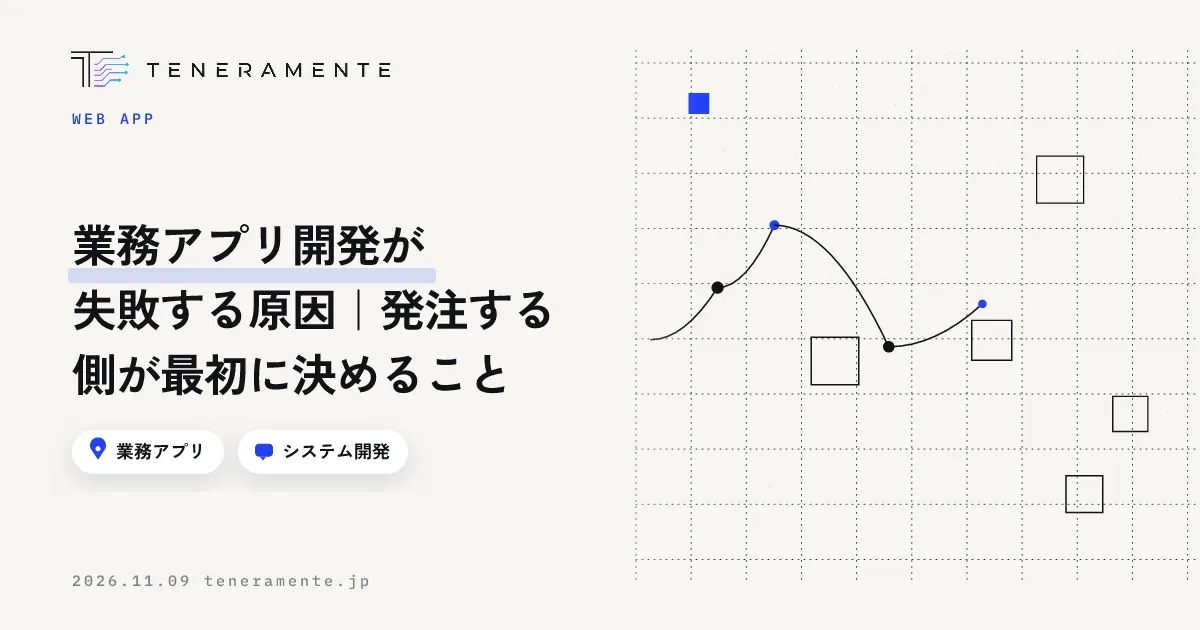
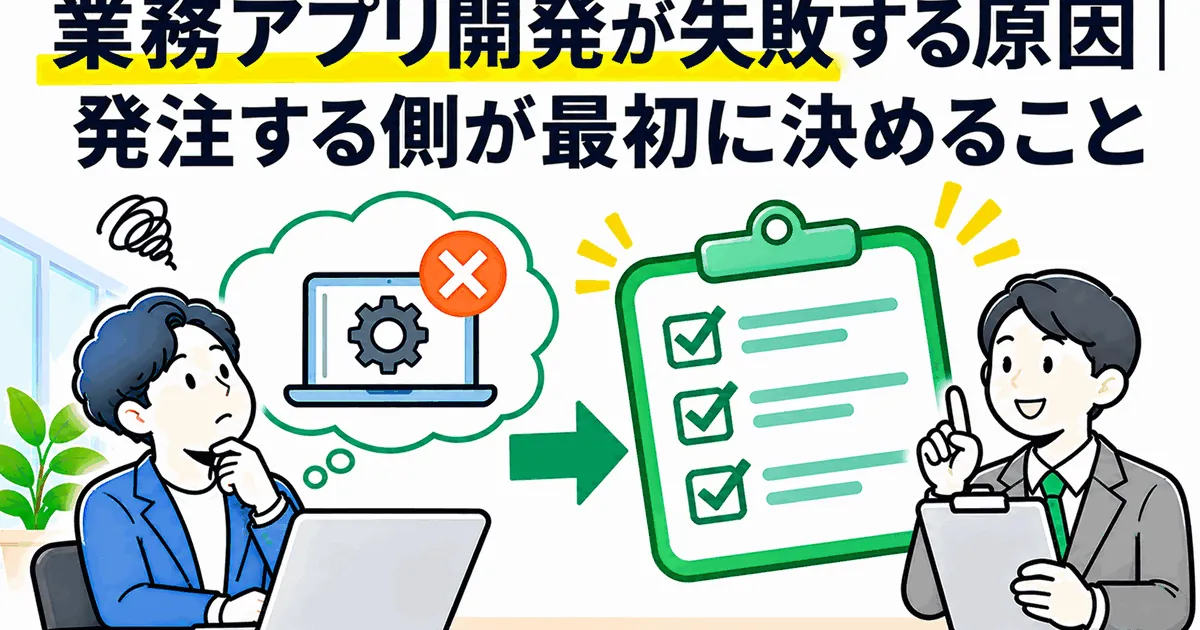
covers: 記事のトップ画像を ChatGPT の画像に差し替え（k112・k113・m055・m054・m053・m052・k111・m051）

diff --git a/mieroom/articles/joken-kousho-susumekata.html b/mieroom/articles/joken-kousho-susumekata.html
@@ -13,15 +13,15 @@
 <meta property="og:description" content="入居希望者から賃料交渉を受けたときの進め方を、確認の順番・管理会社への伝え方・断られたときの代替案の3段で整理しました。通りやすい交渉と通りにくい交渉の違い、店として決めておくルールまでまとめています。">
 <meta property="og:url" content="https://mieroom.cloud/articles/joken-kousho-susumekata.html">
 <meta property="og:site_name" content="ミエルーム">
-<meta property="og:image" content="https://mieroom.cloud/assets/og-mieroom.png">
+<meta property="og:image" content="https://mieroom.cloud/assets/covers/joken-kousho-susumekata.png">
 <meta property="og:image:width" content="1200">
-<meta property="og:image:height" content="630">
+<meta property="og:image:height" content="675">
 <meta name="twitter:card" content="summary_large_image">
 <link rel="preconnect" href="https://fonts.googleapis.com">
 <link rel="preconnect" href="https://fonts.gstatic.com" crossorigin>
 <link href="https://fonts.googleapis.com/css2?family=Noto+Sans+JP:wght@400;500;700;900&family=Zen+Kaku+Gothic+New:wght@500;700;900&display=swap" rel="stylesheet">
 <link rel="stylesheet" href="../assets/site.css">
-<script type="application/ld+json">{"@context":"https://schema.org","@graph":[{"@type":"BlogPosting","headline":"賃料や条件の交渉を通す進め方｜確認の順番と、断られたときの代替案","description":"入居希望者から賃料交渉を受けたときの進め方を、確認の順番・管理会社への伝え方・断られたときの代替案の3段で整理しました。通りやすい交渉と通りにくい交渉の違い、店として決めておくルールまでまとめています。","datePublished":"2026-10-17","dateModified":"2026-10-17","inLanguage":"ja","mainEntityOfPage":"https://mieroom.cloud/articles/joken-kousho-susumekata.html","image":"https://mieroom.cloud/assets/og-mieroom.png","articleSection":"業務効率化","author":{"@type":"Organization","name":"ミエルーム編集部"},"publisher":{"@type":"Organization","name":"株式会社TENERAMENTE","logo":{"@type":"ImageObject","url":"https://teneramente.jp/assets/img/favicon-512.png"}},"keywords":"条件交渉, 申込管理, 店舗運営, 接客, 賃貸仲介"},{"@type":"BreadcrumbList","itemListElement":[{"@type":"ListItem","position":1,"name":"ミエルーム","item":"https://mieroom.cloud/"},{"@type":"ListItem","position":2,"name":"ブログ","item":"https://mieroom.cloud/blog.html"},{"@type":"ListItem","position":3,"name":"賃料や条件の交渉を通す進め方｜確認の順番と、断られたときの代替案","item":"https://mieroom.cloud/articles/joken-kousho-susumekata.html"}]},{"@type":"FAQPage","mainEntity":[{"@type":"Question","name":"家賃交渉はどこまでお願いできるものですか？","acceptedAnswer":{"@type":"Answer","text":"物件とオーナーの状況によって変わるため、一律の上限はありません。判断の材料になるのは、空室になっている期間と入居日です。長く空いている部屋と、募集を始めたばかりの部屋では、同じ相談でも受け取られ方が違います。お客様に「どのくらいまで下がりますか」と聞かれた場合は、金額を約束せず、確認してから回答する旨を伝えてください。先に見込みを言うと、通らなかったときに申込が止まります。"}},{"@type":"Question","name":"交渉の回答を待つ間、ほかのお客様に案内してよいですか？","acceptedAnswer":{"@type":"Answer","text":"店として扱いを決めておく必要があります。交渉の回答待ちは申込ではないため、物件を止める根拠にはなりません。一方で、案内を続けて先に申込が入ると、交渉していたお客様への説明が難しくなります。現実的なのは、回答待ちの期限を決めておくことです。いつまでに回答が来なければ通常の案内に戻す、という線を社内で共有しておくと、担当者ごとの判断が揃います。"}},{"@type":"Question","name":"交渉が通ったあとに申込がキャンセルされたときは？","acceptedAnswer":{"@type":"Answer","text":"管理会社やオーナーへ、理由を添えて早めに連絡してください。連絡が遅れると、次の交渉が出しづらくなります。あわせて、キャンセルの理由を案件の記録に残してください。交渉が通ったのにキャンセルになる場合、理由が条件以外にあることが多く、同じ段階での取りこぼしが続いていないかを後から確認できます。"}}]}]}</script>
+<script type="application/ld+json">{"@context":"https://schema.org","@graph":[{"@type":"BlogPosting","headline":"賃料や条件の交渉を通す進め方｜確認の順番と、断られたときの代替案","description":"入居希望者から賃料交渉を受けたときの進め方を、確認の順番・管理会社への伝え方・断られたときの代替案の3段で整理しました。通りやすい交渉と通りにくい交渉の違い、店として決めておくルールまでまとめています。","datePublished":"2026-10-17","dateModified":"2026-10-17","inLanguage":"ja","mainEntityOfPage":"https://mieroom.cloud/articles/joken-kousho-susumekata.html","image":"https://mieroom.cloud/assets/covers/joken-kousho-susumekata.png","articleSection":"業務効率化","author":{"@type":"Organization","name":"ミエルーム編集部"},"publisher":{"@type":"Organization","name":"株式会社TENERAMENTE","logo":{"@type":"ImageObject","url":"https://teneramente.jp/assets/img/favicon-512.png"}},"keywords":"条件交渉, 申込管理, 店舗運営, 接客, 賃貸仲介"},{"@type":"BreadcrumbList","itemListElement":[{"@type":"ListItem","position":1,"name":"ミエルーム","item":"https://mieroom.cloud/"},{"@type":"ListItem","position":2,"name":"ブログ","item":"https://mieroom.cloud/blog.html"},{"@type":"ListItem","position":3,"name":"賃料や条件の交渉を通す進め方｜確認の順番と、断られたときの代替案","item":"https://mieroom.cloud/articles/joken-kousho-susumekata.html"}]},{"@type":"FAQPage","mainEntity":[{"@type":"Question","name":"家賃交渉はどこまでお願いできるものですか？","acceptedAnswer":{"@type":"Answer","text":"物件とオーナーの状況によって変わるため、一律の上限はありません。判断の材料になるのは、空室になっている期間と入居日です。長く空いている部屋と、募集を始めたばかりの部屋では、同じ相談でも受け取られ方が違います。お客様に「どのくらいまで下がりますか」と聞かれた場合は、金額を約束せず、確認してから回答する旨を伝えてください。先に見込みを言うと、通らなかったときに申込が止まります。"}},{"@type":"Question","name":"交渉の回答を待つ間、ほかのお客様に案内してよいですか？","acceptedAnswer":{"@type":"Answer","text":"店として扱いを決めておく必要があります。交渉の回答待ちは申込ではないため、物件を止める根拠にはなりません。一方で、案内を続けて先に申込が入ると、交渉していたお客様への説明が難しくなります。現実的なのは、回答待ちの期限を決めておくことです。いつまでに回答が来なければ通常の案内に戻す、という線を社内で共有しておくと、担当者ごとの判断が揃います。"}},{"@type":"Question","name":"交渉が通ったあとに申込がキャンセルされたときは？","acceptedAnswer":{"@type":"Answer","text":"管理会社やオーナーへ、理由を添えて早めに連絡してください。連絡が遅れると、次の交渉が出しづらくなります。あわせて、キャンセルの理由を案件の記録に残してください。交渉が通ったのにキャンセルになる場合、理由が条件以外にあることが多く、同じ段階での取りこぼしが続いていないかを後から確認できます。"}}]}]}</script>
 <style id="mp-nav-fit">
 /* 狭い画面ではヘッダーのボタンを小さくして、右にはみ出さないようにする */
 @media (max-width: 640px) {
@@ -75,7 +75,9 @@
     </div>
   </div>
 </section>
-
+<div class="post-cover">
+  <div class="band band--img"><img src="../assets/covers/joken-kousho-susumekata.webp" alt="賃料や条件の交渉を通す進め方｜確認の順番と、断られたときの代替案" width="1200" height="675" decoding="async"></div>
+</div>
 <div class="post-body">
 <p>「家賃、少し下がりませんか」と聞かれたとき、そのまま管理会社に電話していないでしょうか。<strong>条件交渉が通るかどうかは、交渉の上手さではなく、先に何を確認したかで決まります</strong>。確認を飛ばした交渉は、通らないだけでなく、申込そのものを長引かせます。</p>
 <div class="conclusion"><h4>この記事の結論</h4><p>交渉の前に確認するのは、金額ではなく申込の確度と入居日です。<strong>「この条件が通れば申込む」という状態を作ってから出すと、交渉は通りやすくなります</strong>。賃料以外に動かせる条件を先に並べ、断られたときの代替案まで用意してから連絡してください。</p></div>

diff --git a/mieroom/articles/nitenpome-shutten-handan.html b/mieroom/articles/nitenpome-shutten-handan.html
@@ -13,15 +13,15 @@
 <meta property="og:description" content="賃貸仲介で2店舗目を出すかどうかを、感覚ではなく数字と店舗の状態から判断するための整理です。見るべきは売上ではなく粗利と反響の余り、そして1店舗目が店長不在でも回るかどうかという順番でまとめています。">
 <meta property="og:url" content="https://mieroom.cloud/articles/nitenpome-shutten-handan.html">
 <meta property="og:site_name" content="ミエルーム">
-<meta property="og:image" content="https://mieroom.cloud/assets/og-mieroom.png">
+<meta property="og:image" content="https://mieroom.cloud/assets/covers/nitenpome-shutten-handan.png">
 <meta property="og:image:width" content="1200">
-<meta property="og:image:height" content="630">
+<meta property="og:image:height" content="675">
 <meta name="twitter:card" content="summary_large_image">
 <link rel="preconnect" href="https://fonts.googleapis.com">
 <link rel="preconnect" href="https://fonts.gstatic.com" crossorigin>
 <link href="https://fonts.googleapis.com/css2?family=Noto+Sans+JP:wght@400;500;700;900&family=Zen+Kaku+Gothic+New:wght@500;700;900&display=swap" rel="stylesheet">
 <link rel="stylesheet" href="../assets/site.css">
-<script type="application/ld+json">{"@context":"https://schema.org","@graph":[{"@type":"BlogPosting","headline":"賃貸仲介で2店舗目を出すときの判断｜見る数字と、先に整える順番","description":"賃貸仲介で2店舗目を出すかどうかを、感覚ではなく数字と店舗の状態から判断するための整理です。見るべきは売上ではなく粗利と反響の余り、そして1店舗目が店長不在でも回るかどうかという順番でまとめています。","datePublished":"2026-10-19","dateModified":"2026-10-19","inLanguage":"ja","mainEntityOfPage":"https://mieroom.cloud/articles/nitenpome-shutten-handan.html","image":"https://mieroom.cloud/assets/og-mieroom.png","articleSection":"売上管理","author":{"@type":"Organization","name":"ミエルーム編集部"},"publisher":{"@type":"Organization","name":"株式会社TENERAMENTE","logo":{"@type":"ImageObject","url":"https://teneramente.jp/assets/img/favicon-512.png"}},"keywords":"多店舗展開, 出店判断, 売上管理, 店舗運営, 賃貸仲介"},{"@type":"BreadcrumbList","itemListElement":[{"@type":"ListItem","position":1,"name":"ミエルーム","item":"https://mieroom.cloud/"},{"@type":"ListItem","position":2,"name":"ブログ","item":"https://mieroom.cloud/blog.html"},{"@type":"ListItem","position":3,"name":"賃貸仲介で2店舗目を出すときの判断｜見る数字と、先に整える順番","item":"https://mieroom.cloud/articles/nitenpome-shutten-handan.html"}]},{"@type":"FAQPage","mainEntity":[{"@type":"Question","name":"売上がどれくらいになったら2店舗目を考えてよいですか？","acceptedAnswer":{"@type":"Answer","text":"金額の目安を一律に示すことはできません。家賃も人件費も地域と規模で変わるためです。見るのは売上の額ではなく、年間の粗利で、2店舗目が立ち上がるまでの数か月を支えられるかどうかです。あわせて、1店舗目の反響が取りきれていないかを確認してください。この2つが揃っていないうちは、今の店舗の歩留まりを上げる側に投資したほうが確実です。"}},{"@type":"Question","name":"任せる人がいない場合、どうすればよいですか？","acceptedAnswer":{"@type":"Answer","text":"採用して育てる期間を、出店時期に含めて考えてください。出店を先に決めてから人を探すと、入社直後の人に店舗を任せることになります。先に1店舗目で新人を受け入れ、反響対応から申込まで一人で回せる状態まで育ててから、その人に新店か現店のどちらかを任せる形が現実的です。育てる順番が決まっていない場合は、まずそこを整えるのが準備になります。"}},{"@type":"Question","name":"2店舗目は近い場所と離れた場所、どちらがよいですか？","acceptedAnswer":{"@type":"Answer","text":"今の店舗の商圏で反響が足りているかで決まります。足りていない場合は、離れた場所に出して新しい商圏から反響を取る形になります。足りていて取りきれていない場合は、近い場所のほうが物件情報や応援の行き来が効き、立ち上がりも早くなります。ただし近い場合は、同じ反響をどちらが受けるかの線引きを先に決めておかないと、店舗間で取り合いになります。"}}]}]}</script>
+<script type="application/ld+json">{"@context":"https://schema.org","@graph":[{"@type":"BlogPosting","headline":"賃貸仲介で2店舗目を出すときの判断｜見る数字と、先に整える順番","description":"賃貸仲介で2店舗目を出すかどうかを、感覚ではなく数字と店舗の状態から判断するための整理です。見るべきは売上ではなく粗利と反響の余り、そして1店舗目が店長不在でも回るかどうかという順番でまとめています。","datePublished":"2026-10-19","dateModified":"2026-10-19","inLanguage":"ja","mainEntityOfPage":"https://mieroom.cloud/articles/nitenpome-shutten-handan.html","image":"https://mieroom.cloud/assets/covers/nitenpome-shutten-handan.png","articleSection":"売上管理","author":{"@type":"Organization","name":"ミエルーム編集部"},"publisher":{"@type":"Organization","name":"株式会社TENERAMENTE","logo":{"@type":"ImageObject","url":"https://teneramente.jp/assets/img/favicon-512.png"}},"keywords":"多店舗展開, 出店判断, 売上管理, 店舗運営, 賃貸仲介"},{"@type":"BreadcrumbList","itemListElement":[{"@type":"ListItem","position":1,"name":"ミエルーム","item":"https://mieroom.cloud/"},{"@type":"ListItem","position":2,"name":"ブログ","item":"https://mieroom.cloud/blog.html"},{"@type":"ListItem","position":3,"name":"賃貸仲介で2店舗目を出すときの判断｜見る数字と、先に整える順番","item":"https://mieroom.cloud/articles/nitenpome-shutten-handan.html"}]},{"@type":"FAQPage","mainEntity":[{"@type":"Question","name":"売上がどれくらいになったら2店舗目を考えてよいですか？","acceptedAnswer":{"@type":"Answer","text":"金額の目安を一律に示すことはできません。家賃も人件費も地域と規模で変わるためです。見るのは売上の額ではなく、年間の粗利で、2店舗目が立ち上がるまでの数か月を支えられるかどうかです。あわせて、1店舗目の反響が取りきれていないかを確認してください。この2つが揃っていないうちは、今の店舗の歩留まりを上げる側に投資したほうが確実です。"}},{"@type":"Question","name":"任せる人がいない場合、どうすればよいですか？","acceptedAnswer":{"@type":"Answer","text":"採用して育てる期間を、出店時期に含めて考えてください。出店を先に決めてから人を探すと、入社直後の人に店舗を任せることになります。先に1店舗目で新人を受け入れ、反響対応から申込まで一人で回せる状態まで育ててから、その人に新店か現店のどちらかを任せる形が現実的です。育てる順番が決まっていない場合は、まずそこを整えるのが準備になります。"}},{"@type":"Question","name":"2店舗目は近い場所と離れた場所、どちらがよいですか？","acceptedAnswer":{"@type":"Answer","text":"今の店舗の商圏で反響が足りているかで決まります。足りていない場合は、離れた場所に出して新しい商圏から反響を取る形になります。足りていて取りきれていない場合は、近い場所のほうが物件情報や応援の行き来が効き、立ち上がりも早くなります。ただし近い場合は、同じ反響をどちらが受けるかの線引きを先に決めておかないと、店舗間で取り合いになります。"}}]}]}</script>
 <style id="mp-nav-fit">
 /* 狭い画面ではヘッダーのボタンを小さくして、右にはみ出さないようにする */
 @media (max-width: 640px) {
@@ -75,7 +75,9 @@
     </div>
   </div>
 </section>
-
+<div class="post-cover">
+  <div class="band band--img"><img src="../assets/covers/nitenpome-shutten-handan.webp" alt="賃貸仲介で2店舗目を出すときの判断｜見る数字と、先に整える順番" width="1200" height="675" decoding="async"></div>
+</div>
 <div class="post-body">
 <p>売上が安定してきたので、そろそろ2店舗目を。賃貸仲介の店舗運営でこの話が出るのは、たいてい繁忙期が終わった直後です。ただ、<strong>2店舗目を出すかどうかを決めるのは売上の大きさではなく、1店舗目が「自分がいなくても回る状態」になっているかどうか</strong>です。</p>
 <div class="conclusion"><h4>この記事の結論</h4><p>2店舗目の判断で見るのは、売上ではなく<strong>粗利の厚みと、1店舗目で取りきれていない反響があるかどうか</strong>です。そのうえで、1店舗目が店長不在でも回る状態になっているかを確かめます。順番を逆にすると、2店舗出して両方が薄くなります。</p></div>

diff --git a/mieroom/articles/shitchu-horiokoshi.html b/mieroom/articles/shitchu-horiokoshi.html
@@ -13,15 +13,15 @@
 <meta property="og:description" content="過去に決まらなかった反響へ、繁忙期前にもう一度声をかけるための進め方をまとめました。失注理由で対象を分ける考え方、引越し時期から逆算した連絡の時機、送る文面の形、そして掘り起こしができる記録の残し方まで整理しています。">
 <meta property="og:url" content="https://mieroom.cloud/articles/shitchu-horiokoshi.html">
 <meta property="og:site_name" content="ミエルーム">
-<meta property="og:image" content="https://mieroom.cloud/assets/og-mieroom.png">
+<meta property="og:image" content="https://mieroom.cloud/assets/covers/shitchu-horiokoshi.png">
 <meta property="og:image:width" content="1200">
-<meta property="og:image:height" content="630">
+<meta property="og:image:height" content="675">
 <meta name="twitter:card" content="summary_large_image">
 <link rel="preconnect" href="https://fonts.googleapis.com">
 <link rel="preconnect" href="https://fonts.gstatic.com" crossorigin>
 <link href="https://fonts.googleapis.com/css2?family=Noto+Sans+JP:wght@400;500;700;900&family=Zen+Kaku+Gothic+New:wght@500;700;900&display=swap" rel="stylesheet">
 <link rel="stylesheet" href="../assets/site.css">
-<script type="application/ld+json">{"@context":"https://schema.org","@graph":[{"@type":"BlogPosting","headline":"賃貸仲介の失注客の掘り起こし方｜繁忙期前に声をかける相手の選び方","description":"過去に決まらなかった反響へ、繁忙期前にもう一度声をかけるための進め方をまとめました。失注理由で対象を分ける考え方、引越し時期から逆算した連絡の時機、送る文面の形、そして掘り起こしができる記録の残し方まで整理しています。","datePublished":"2026-10-21","dateModified":"2026-10-21","inLanguage":"ja","mainEntityOfPage":"https://mieroom.cloud/articles/shitchu-horiokoshi.html","image":"https://mieroom.cloud/assets/og-mieroom.png","articleSection":"集客・広告","author":{"@type":"Organization","name":"ミエルーム編集部"},"publisher":{"@type":"Organization","name":"株式会社TENERAMENTE","logo":{"@type":"ImageObject","url":"https://teneramente.jp/assets/img/favicon-512.png"}},"keywords":"反響管理, 追客, 集客, 繁忙期対策, 賃貸仲介"},{"@type":"BreadcrumbList","itemListElement":[{"@type":"ListItem","position":1,"name":"ミエルーム","item":"https://mieroom.cloud/"},{"@type":"ListItem","position":2,"name":"ブログ","item":"https://mieroom.cloud/blog.html"},{"@type":"ListItem","position":3,"name":"賃貸仲介の失注客の掘り起こし方｜繁忙期前に声をかける相手の選び方","item":"https://mieroom.cloud/articles/shitchu-horiokoshi.html"}]},{"@type":"FAQPage","mainEntity":[{"@type":"Question","name":"何か月前の反響まで掘り起こしの対象になりますか？","acceptedAnswer":{"@type":"Answer","text":"期間で区切るよりも、当時の希望時期で判断してください。1年以上前の反響でも、契約更新を機に検討していた方であれば、更新の時期に合わせて声をかける意味があります。逆に数か月前でも、他社で決めた方は対象になりません。期間で一律に区切ると、動く理由がある方を外して、すでに決まった方に送ることになります。"}},{"@type":"Question","name":"返信がなかった方には、もう一度送ってよいですか？","acceptedAnswer":{"@type":"Answer","text":"同じ時期に重ねて送るのは避けてください。返信がないこと自体が、今は検討していないという返事です。次に声をかけるなら、物件の状況が変わったときや、希望していた時期が近づいたときなど、相手の状況が動いたタイミングに限ります。送った日と返信の有無を記録に残しておけば、この判断が担当者ごとにぶれません。"}},{"@type":"Question","name":"掘り起こしは誰が担当するのがよいですか？","acceptedAnswer":{"@type":"Answer","text":"当時その反響を担当した人が送るのが、文面の精度としては最も高くなります。ただ、繁忙期前は目の前の反響対応もあるため、対象の選び出しと送る日の設定までを店長側でまとめ、送信と返信対応を担当者が行う分担が現実的です。この形にする場合も、誰に送ったかは全員が見える記録に残してください。重複して連絡が行くのを防げます。"}}]}]}</script>
+<script type="application/ld+json">{"@context":"https://schema.org","@graph":[{"@type":"BlogPosting","headline":"賃貸仲介の失注客の掘り起こし方｜繁忙期前に声をかける相手の選び方","description":"過去に決まらなかった反響へ、繁忙期前にもう一度声をかけるための進め方をまとめました。失注理由で対象を分ける考え方、引越し時期から逆算した連絡の時機、送る文面の形、そして掘り起こしができる記録の残し方まで整理しています。","datePublished":"2026-10-21","dateModified":"2026-10-21","inLanguage":"ja","mainEntityOfPage":"https://mieroom.cloud/articles/shitchu-horiokoshi.html","image":"https://mieroom.cloud/assets/covers/shitchu-horiokoshi.png","articleSection":"集客・広告","author":{"@type":"Organization","name":"ミエルーム編集部"},"publisher":{"@type":"Organization","name":"株式会社TENERAMENTE","logo":{"@type":"ImageObject","url":"https://teneramente.jp/assets/img/favicon-512.png"}},"keywords":"反響管理, 追客, 集客, 繁忙期対策, 賃貸仲介"},{"@type":"BreadcrumbList","itemListElement":[{"@type":"ListItem","position":1,"name":"ミエルーム","item":"https://mieroom.cloud/"},{"@type":"ListItem","position":2,"name":"ブログ","item":"https://mieroom.cloud/blog.html"},{"@type":"ListItem","position":3,"name":"賃貸仲介の失注客の掘り起こし方｜繁忙期前に声をかける相手の選び方","item":"https://mieroom.cloud/articles/shitchu-horiokoshi.html"}]},{"@type":"FAQPage","mainEntity":[{"@type":"Question","name":"何か月前の反響まで掘り起こしの対象になりますか？","acceptedAnswer":{"@type":"Answer","text":"期間で区切るよりも、当時の希望時期で判断してください。1年以上前の反響でも、契約更新を機に検討していた方であれば、更新の時期に合わせて声をかける意味があります。逆に数か月前でも、他社で決めた方は対象になりません。期間で一律に区切ると、動く理由がある方を外して、すでに決まった方に送ることになります。"}},{"@type":"Question","name":"返信がなかった方には、もう一度送ってよいですか？","acceptedAnswer":{"@type":"Answer","text":"同じ時期に重ねて送るのは避けてください。返信がないこと自体が、今は検討していないという返事です。次に声をかけるなら、物件の状況が変わったときや、希望していた時期が近づいたときなど、相手の状況が動いたタイミングに限ります。送った日と返信の有無を記録に残しておけば、この判断が担当者ごとにぶれません。"}},{"@type":"Question","name":"掘り起こしは誰が担当するのがよいですか？","acceptedAnswer":{"@type":"Answer","text":"当時その反響を担当した人が送るのが、文面の精度としては最も高くなります。ただ、繁忙期前は目の前の反響対応もあるため、対象の選び出しと送る日の設定までを店長側でまとめ、送信と返信対応を担当者が行う分担が現実的です。この形にする場合も、誰に送ったかは全員が見える記録に残してください。重複して連絡が行くのを防げます。"}}]}]}</script>
 <style id="mp-nav-fit">
 /* 狭い画面ではヘッダーのボタンを小さくして、右にはみ出さないようにする */
 @media (max-width: 640px) {
@@ -75,7 +75,9 @@
     </div>
   </div>
 </section>
-
+<div class="post-cover">
+  <div class="band band--img"><img src="../assets/covers/shitchu-horiokoshi.webp" alt="賃貸仲介の失注客の掘り起こし方｜繁忙期前に声をかける相手の選び方" width="1200" height="675" decoding="async"></div>
+</div>
 <div class="post-body">
 <p>繁忙期に向けて反響を増やしたい、という話になると、まず掲載プランの話から始まりがちです。ただ、<strong>掲載を増やす前に手を付けられるのが、過去に決まらなかった反響です</strong>。失注した反響のなかには、そのときは動けなかっただけで、今ならもう一度検討する方が確実に混ざっています。</p>
 <div class="conclusion"><h4>この記事の結論</h4><p>掘り起こしは、過去の反響リスト全員に一斉送信する作業ではありません。<strong>失注した理由で分けて、今動く理由がある方にだけ声をかけます</strong>。対象になるのは主に「時期が先だった方」と「条件が合わなかった方」の2つで、連絡する時機は引越しの時期から逆算して決めます。</p></div>

diff --git a/mieroom/articles/buai-kyu-kimekata.html b/mieroom/articles/buai-kyu-kimekata.html
@@ -13,15 +13,15 @@
 <meta property="og:description" content="賃貸仲介の歩合給を、揉めない形で決めるための考え方を整理しました。申込・契約・入金のどこを対象にするか、固定給との比率、支給のタイミング、キャンセルや解約が出たときの扱いまでまとめています。">
 <meta property="og:url" content="https://mieroom.cloud/articles/buai-kyu-kimekata.html">
 <meta property="og:site_name" content="ミエルーム">
-<meta property="og:image" content="https://mieroom.cloud/assets/og-mieroom.png">
+<meta property="og:image" content="https://mieroom.cloud/assets/covers/buai-kyu-kimekata.png">
 <meta property="og:image:width" content="1200">
-<meta property="og:image:height" content="630">
+<meta property="og:image:height" content="675">
 <meta name="twitter:card" content="summary_large_image">
 <link rel="preconnect" href="https://fonts.googleapis.com">
 <link rel="preconnect" href="https://fonts.gstatic.com" crossorigin>
 <link href="https://fonts.googleapis.com/css2?family=Noto+Sans+JP:wght@400;500;700;900&family=Zen+Kaku+Gothic+New:wght@500;700;900&display=swap" rel="stylesheet">
 <link rel="stylesheet" href="../assets/site.css">
-<script type="application/ld+json">{"@context":"https://schema.org","@graph":[{"@type":"BlogPosting","headline":"賃貸仲介の歩合給の決め方｜対象にする成果と、キャンセル時の扱い","description":"賃貸仲介の歩合給を、揉めない形で決めるための考え方を整理しました。申込・契約・入金のどこを対象にするか、固定給との比率、支給のタイミング、キャンセルや解約が出たときの扱いまでまとめています。","datePublished":"2026-10-18","dateModified":"2026-10-18","inLanguage":"ja","mainEntityOfPage":"https://mieroom.cloud/articles/buai-kyu-kimekata.html","image":"https://mieroom.cloud/assets/og-mieroom.png","articleSection":"組織・育成","author":{"@type":"Organization","name":"ミエルーム編集部"},"publisher":{"@type":"Organization","name":"株式会社TENERAMENTE","logo":{"@type":"ImageObject","url":"https://teneramente.jp/assets/img/favicon-512.png"}},"keywords":"歩合給, 給与, 店舗運営, スタッフ育成, 賃貸仲介"},{"@type":"BreadcrumbList","itemListElement":[{"@type":"ListItem","position":1,"name":"ミエルーム","item":"https://mieroom.cloud/"},{"@type":"ListItem","position":2,"name":"ブログ","item":"https://mieroom.cloud/blog.html"},{"@type":"ListItem","position":3,"name":"賃貸仲介の歩合給の決め方｜対象にする成果と、キャンセル時の扱い","item":"https://mieroom.cloud/articles/buai-kyu-kimekata.html"}]},{"@type":"FAQPage","mainEntity":[{"@type":"Question","name":"歩合給の割合は、他店に合わせたほうがよいですか？","acceptedAnswer":{"@type":"Answer","text":"他店の水準は採用の参考になりますが、そのまま持ってくると払えない月が出ます。判断の基準は、自店の粗利です。繁忙期と閑散期の両方で、歩合の総額が粗利に収まるかを確認してから決めてください。採用面で見劣りする場合は、歩合の割合だけでなく、固定給の水準や支給の早さ、休日の取りやすさなど、ほかの条件で調整する方法もあります。"}},{"@type":"Question","name":"途中で担当が替わった案件は、どう数えればよいですか？","acceptedAnswer":{"@type":"Answer","text":"主担当方式を取るなら、「いつの時点の担当を主担当とするか」を決めておいてください。申込時点の担当とする、契約手続きをした担当とする、どちらでも構いませんが、案件ごとに判断する形にしないことが大事です。あわせて、引き継いだ側が不利にならないよう、引き継ぎが発生した案件の扱いも書いておくと、引き継ぎを避ける動きが出にくくなります。"}},{"@type":"Question","name":"決めた制度は、途中で変えてもよいですか？","acceptedAnswer":{"@type":"Answer","text":"変更は問題ありませんが、適用の開始時期を明確にしてください。進行中の案件に新しい基準を当てると、必ず不満が出ます。「次の月の申込分から新しい基準」といった線を引き、変更前に決まっていた案件は旧基準で処理するのが無理のない進め方です。労働条件の変更にあたる内容を含む場合は、社会保険労務士など専門家に確認してから進めてください。"}}]}]}</script>
+<script type="application/ld+json">{"@context":"https://schema.org","@graph":[{"@type":"BlogPosting","headline":"賃貸仲介の歩合給の決め方｜対象にする成果と、キャンセル時の扱い","description":"賃貸仲介の歩合給を、揉めない形で決めるための考え方を整理しました。申込・契約・入金のどこを対象にするか、固定給との比率、支給のタイミング、キャンセルや解約が出たときの扱いまでまとめています。","datePublished":"2026-10-18","dateModified":"2026-10-18","inLanguage":"ja","mainEntityOfPage":"https://mieroom.cloud/articles/buai-kyu-kimekata.html","image":"https://mieroom.cloud/assets/covers/buai-kyu-kimekata.png","articleSection":"組織・育成","author":{"@type":"Organization","name":"ミエルーム編集部"},"publisher":{"@type":"Organization","name":"株式会社TENERAMENTE","logo":{"@type":"ImageObject","url":"https://teneramente.jp/assets/img/favicon-512.png"}},"keywords":"歩合給, 給与, 店舗運営, スタッフ育成, 賃貸仲介"},{"@type":"BreadcrumbList","itemListElement":[{"@type":"ListItem","position":1,"name":"ミエルーム","item":"https://mieroom.cloud/"},{"@type":"ListItem","position":2,"name":"ブログ","item":"https://mieroom.cloud/blog.html"},{"@type":"ListItem","position":3,"name":"賃貸仲介の歩合給の決め方｜対象にする成果と、キャンセル時の扱い","item":"https://mieroom.cloud/articles/buai-kyu-kimekata.html"}]},{"@type":"FAQPage","mainEntity":[{"@type":"Question","name":"歩合給の割合は、他店に合わせたほうがよいですか？","acceptedAnswer":{"@type":"Answer","text":"他店の水準は採用の参考になりますが、そのまま持ってくると払えない月が出ます。判断の基準は、自店の粗利です。繁忙期と閑散期の両方で、歩合の総額が粗利に収まるかを確認してから決めてください。採用面で見劣りする場合は、歩合の割合だけでなく、固定給の水準や支給の早さ、休日の取りやすさなど、ほかの条件で調整する方法もあります。"}},{"@type":"Question","name":"途中で担当が替わった案件は、どう数えればよいですか？","acceptedAnswer":{"@type":"Answer","text":"主担当方式を取るなら、「いつの時点の担当を主担当とするか」を決めておいてください。申込時点の担当とする、契約手続きをした担当とする、どちらでも構いませんが、案件ごとに判断する形にしないことが大事です。あわせて、引き継いだ側が不利にならないよう、引き継ぎが発生した案件の扱いも書いておくと、引き継ぎを避ける動きが出にくくなります。"}},{"@type":"Question","name":"決めた制度は、途中で変えてもよいですか？","acceptedAnswer":{"@type":"Answer","text":"変更は問題ありませんが、適用の開始時期を明確にしてください。進行中の案件に新しい基準を当てると、必ず不満が出ます。「次の月の申込分から新しい基準」といった線を引き、変更前に決まっていた案件は旧基準で処理するのが無理のない進め方です。労働条件の変更にあたる内容を含む場合は、社会保険労務士など専門家に確認してから進めてください。"}}]}]}</script>
 <style id="mp-nav-fit">
 /* 狭い画面ではヘッダーのボタンを小さくして、右にはみ出さないようにする */
 @media (max-width: 640px) {
@@ -75,7 +75,9 @@
     </div>
   </div>
 </section>
-
+<div class="post-cover">
+  <div class="band band--img"><img src="../assets/covers/buai-kyu-kimekata.webp" alt="賃貸仲介の歩合給の決め方｜対象にする成果と、キャンセル時の扱い" width="1200" height="675" decoding="async"></div>
+</div>
 <div class="post-body">
 <p>歩合給でもめる原因は、金額の高さではありません。<strong>「どの時点の成果に払うのか」が決まっていないこと</strong>です。申込が入った時点で成果と数えるのか、入金を確認してからなのか。この線を先に引いておかないと、キャンセルが出たときに必ず揉めます。</p>
 <div class="conclusion"><h4>この記事の結論</h4><p>歩合給は、割合より先に対象を決めます。<strong>申込・契約・入金のどこを成果と数えるかを文書にし、キャンセル時の扱いまで同時に決めておく</strong>こと。そのうえで、成果を後から数えられる記録の形を用意してから運用を始めてください。</p></div>

diff --git a/mieroom/articles/kojin-joho-toriatsukai.html b/mieroom/articles/kojin-joho-toriatsukai.html
@@ -13,15 +13,15 @@
 <meta property="og:description" content="賃貸仲介の店舗で預かる個人情報が、どこから漏れやすいかを場所ごとに整理しました。紙の申込書、個人のスマホとLINE、メールの宛先、退職時の持ち出しという4か所と、決めておく社内ルールの作り方までまとめています。">
 <meta property="og:url" content="https://mieroom.cloud/articles/kojin-joho-toriatsukai.html">
 <meta property="og:site_name" content="ミエルーム">
-<meta property="og:image" content="https://mieroom.cloud/assets/og-mieroom.png">
+<meta property="og:image" content="https://mieroom.cloud/assets/covers/kojin-joho-toriatsukai.png">
 <meta property="og:image:width" content="1200">
-<meta property="og:image:height" content="630">
+<meta property="og:image:height" content="675">
 <meta name="twitter:card" content="summary_large_image">
 <link rel="preconnect" href="https://fonts.googleapis.com">
 <link rel="preconnect" href="https://fonts.gstatic.com" crossorigin>
 <link href="https://fonts.googleapis.com/css2?family=Noto+Sans+JP:wght@400;500;700;900&family=Zen+Kaku+Gothic+New:wght@500;700;900&display=swap" rel="stylesheet">
 <link rel="stylesheet" href="../assets/site.css">
-<script type="application/ld+json">{"@context":"https://schema.org","@graph":[{"@type":"BlogPosting","headline":"賃貸仲介店舗の個人情報の扱い方｜漏れやすい場所と、決めておく社内ルール","description":"賃貸仲介の店舗で預かる個人情報が、どこから漏れやすいかを場所ごとに整理しました。紙の申込書、個人のスマホとLINE、メールの宛先、退職時の持ち出しという4か所と、決めておく社内ルールの作り方までまとめています。","datePublished":"2026-10-20","dateModified":"2026-10-20","inLanguage":"ja","mainEntityOfPage":"https://mieroom.cloud/articles/kojin-joho-toriatsukai.html","image":"https://mieroom.cloud/assets/og-mieroom.png","articleSection":"DX","author":{"@type":"Organization","name":"ミエルーム編集部"},"publisher":{"@type":"Organization","name":"株式会社TENERAMENTE","logo":{"@type":"ImageObject","url":"https://teneramente.jp/assets/img/favicon-512.png"}},"keywords":"個人情報, 店舗運営, 社内ルール, DX, 賃貸仲介"},{"@type":"BreadcrumbList","itemListElement":[{"@type":"ListItem","position":1,"name":"ミエルーム","item":"https://mieroom.cloud/"},{"@type":"ListItem","position":2,"name":"ブログ","item":"https://mieroom.cloud/blog.html"},{"@type":"ListItem","position":3,"name":"賃貸仲介店舗の個人情報の扱い方｜漏れやすい場所と、決めておく社内ルール","item":"https://mieroom.cloud/articles/kojin-joho-toriatsukai.html"}]},{"@type":"FAQPage","mainEntity":[{"@type":"Question","name":"小規模な店舗でも、ここまで決める必要がありますか？","acceptedAnswer":{"@type":"Answer","text":"規模が小さいほど、決めておく価値があります。人数が少ない店舗では、担当者の手元に情報が集まりやすく、その人が休んだり辞めたりしたときに誰も分からない状態になります。ルールは短くて構いません。紙の置き場所、私物端末での撮影の扱い、退職時の手続きの3つだけでも、決めていない状態とは大きく違います。"}},{"@type":"Question","name":"紙の申込書は、いつまで保管すればよいですか？","acceptedAnswer":{"@type":"Answer","text":"保管の期間は、法令や管理会社との取り決めで必要な分があるため、一律には決められません。確認すべきなのは、必要な期間を過ぎた書類が店舗に残り続けていないかです。必要な分を決めたうえで、それを過ぎた書類を定期的に処分する時機を運用として決めてください。期限が分からないまま全部取っておく形が、いちばん量が増えます。"}},{"@type":"Question","name":"個人のLINEで追客している担当者に、どう切り替えてもらえばよいですか？","acceptedAnswer":{"@type":"Answer","text":"やり方だけを変えるよう伝えても戻ります。個人のLINEが使われるのは、それがいちばん早いからです。店舗側の仕組みで同じ速さが出る状態を用意してから切り替えてください。そのうえで、新規の案件からは店舗側の経路に統一し、既存のやりとりは引き継ぎのタイミングで移す形にすると、現場が止まりません。"}}]}]}</script>
+<script type="application/ld+json">{"@context":"https://schema.org","@graph":[{"@type":"BlogPosting","headline":"賃貸仲介店舗の個人情報の扱い方｜漏れやすい場所と、決めておく社内ルール","description":"賃貸仲介の店舗で預かる個人情報が、どこから漏れやすいかを場所ごとに整理しました。紙の申込書、個人のスマホとLINE、メールの宛先、退職時の持ち出しという4か所と、決めておく社内ルールの作り方までまとめています。","datePublished":"2026-10-20","dateModified":"2026-10-20","inLanguage":"ja","mainEntityOfPage":"https://mieroom.cloud/articles/kojin-joho-toriatsukai.html","image":"https://mieroom.cloud/assets/covers/kojin-joho-toriatsukai.png","articleSection":"DX","author":{"@type":"Organization","name":"ミエルーム編集部"},"publisher":{"@type":"Organization","name":"株式会社TENERAMENTE","logo":{"@type":"ImageObject","url":"https://teneramente.jp/assets/img/favicon-512.png"}},"keywords":"個人情報, 店舗運営, 社内ルール, DX, 賃貸仲介"},{"@type":"BreadcrumbList","itemListElement":[{"@type":"ListItem","position":1,"name":"ミエルーム","item":"https://mieroom.cloud/"},{"@type":"ListItem","position":2,"name":"ブログ","item":"https://mieroom.cloud/blog.html"},{"@type":"ListItem","position":3,"name":"賃貸仲介店舗の個人情報の扱い方｜漏れやすい場所と、決めておく社内ルール","item":"https://mieroom.cloud/articles/kojin-joho-toriatsukai.html"}]},{"@type":"FAQPage","mainEntity":[{"@type":"Question","name":"小規模な店舗でも、ここまで決める必要がありますか？","acceptedAnswer":{"@type":"Answer","text":"規模が小さいほど、決めておく価値があります。人数が少ない店舗では、担当者の手元に情報が集まりやすく、その人が休んだり辞めたりしたときに誰も分からない状態になります。ルールは短くて構いません。紙の置き場所、私物端末での撮影の扱い、退職時の手続きの3つだけでも、決めていない状態とは大きく違います。"}},{"@type":"Question","name":"紙の申込書は、いつまで保管すればよいですか？","acceptedAnswer":{"@type":"Answer","text":"保管の期間は、法令や管理会社との取り決めで必要な分があるため、一律には決められません。確認すべきなのは、必要な期間を過ぎた書類が店舗に残り続けていないかです。必要な分を決めたうえで、それを過ぎた書類を定期的に処分する時機を運用として決めてください。期限が分からないまま全部取っておく形が、いちばん量が増えます。"}},{"@type":"Question","name":"個人のLINEで追客している担当者に、どう切り替えてもらえばよいですか？","acceptedAnswer":{"@type":"Answer","text":"やり方だけを変えるよう伝えても戻ります。個人のLINEが使われるのは、それがいちばん早いからです。店舗側の仕組みで同じ速さが出る状態を用意してから切り替えてください。そのうえで、新規の案件からは店舗側の経路に統一し、既存のやりとりは引き継ぎのタイミングで移す形にすると、現場が止まりません。"}}]}]}</script>
 <style id="mp-nav-fit">
 /* 狭い画面ではヘッダーのボタンを小さくして、右にはみ出さないようにする */
 @media (max-width: 640px) {
@@ -75,7 +75,9 @@
     </div>
   </div>
 </section>
-
+<div class="post-cover">
+  <div class="band band--img"><img src="../assets/covers/kojin-joho-toriatsukai.webp" alt="賃貸仲介店舗の個人情報の扱い方｜漏れやすい場所と、決めておく社内ルール" width="1200" height="675" decoding="async"></div>
+</div>
 <div class="post-body">
 <p>賃貸仲介の店舗は、身分証、収入の資料、勤務先、家族構成、連絡先まで預かります。扱う情報の量は、規模のわりに多い業種です。それでも事故が起きるのは、<strong>悪意があるからではなく、どこに置いてよいかを決めていない場所に情報が溜まるから</strong>です。</p>
 <div class="conclusion"><h4>この記事の結論</h4><p>個人情報の管理は、意識を高めることでは良くなりません。<strong>紙の置き場所、私物スマホ、メールの宛先、退職時の持ち出しという4か所に、具体的なルールを1つずつ決める</strong>ことで減ります。決めたら1枚にまとめて配り、入社時に渡してください。</p></div>

diff --git a/mieroom/blog.html b/mieroom/blog.html
@@ -566,7 +566,7 @@ src="https://www.facebook.com/tr?id=28086413637650888&ev=PageView&noscript=1"
       </a>
 
       <a class="bpost" data-cat="集客・広告" data-text="賃貸仲介の失注客の掘り起こし方｜繁忙期前に声をかける相手の選び方 反響管理 追客 集客 繁忙期対策 賃貸仲介" href="articles/shitchu-horiokoshi.html">
-        <div class="bcover bcover--text"><span class="bct-cat">集客・広告</span><b>賃貸仲介の失注客の掘り起こし方｜繁忙期前に声をかける相手の選び方</b></div>
+        <div class="bcover bcover--img"><img src="assets/covers/shitchu-horiokoshi-card.webp" alt="賃貸仲介の失注客の掘り起こし方｜繁忙期前に声をかける相手の選び方" loading="lazy" decoding="async" width="640" height="360"></div>
         <div class="bbody">
           <div class="bmeta"><span class="bcat">集客・広告</span><span class="bdate">2026.10.21</span></div>
           <h3>賃貸仲介の失注客の掘り起こし方｜繁忙期前に声をかける相手の選び方</h3>
@@ -576,7 +576,7 @@ src="https://www.facebook.com/tr?id=28086413637650888&ev=PageView&noscript=1"
       </a>
 
       <a class="bpost" data-cat="DX" data-text="賃貸仲介店舗の個人情報の扱い方｜漏れやすい場所と、決めておく社内ルール 個人情報 店舗運営 社内ルール DX 賃貸仲介" href="articles/kojin-joho-toriatsukai.html">
-        <div class="bcover bcover--text"><span class="bct-cat">DX</span><b>賃貸仲介店舗の個人情報の扱い方｜漏れやすい場所と、決めておく社内ルール</b></div>
+        <div class="bcover bcover--img"><img src="assets/covers/kojin-joho-toriatsukai-card.webp" alt="賃貸仲介店舗の個人情報の扱い方｜漏れやすい場所と、決めておく社内ルール" loading="lazy" decoding="async" width="640" height="360"></div>
         <div class="bbody">
           <div class="bmeta"><span class="bcat">DX</span><span class="bdate">2026.10.20</span></div>
           <h3>賃貸仲介店舗の個人情報の扱い方｜漏れやすい場所と、決めておく社内ルール</h3>
@@ -586,7 +586,7 @@ src="https://www.facebook.com/tr?id=28086413637650888&ev=PageView&noscript=1"
       </a>
 
       <a class="bpost" data-cat="売上管理" data-text="賃貸仲介で2店舗目を出すときの判断｜見る数字と、先に整える順番 多店舗展開 出店判断 売上管理 店舗運営 賃貸仲介" href="articles/nitenpome-shutten-handan.html">
-        <div class="bcover bcover--text"><span class="bct-cat">売上管理</span><b>賃貸仲介で2店舗目を出すときの判断｜見る数字と、先に整える順番</b></div>
+        <div class="bcover bcover--img"><img src="assets/covers/nitenpome-shutten-handan-card.webp" alt="賃貸仲介で2店舗目を出すときの判断｜見る数字と、先に整える順番" loading="lazy" decoding="async" width="640" height="360"></div>
         <div class="bbody">
           <div class="bmeta"><span class="bcat">売上管理</span><span class="bdate">2026.10.19</span></div>
           <h3>賃貸仲介で2店舗目を出すときの判断｜見る数字と、先に整える順番</h3>
@@ -596,7 +596,7 @@ src="https://www.facebook.com/tr?id=28086413637650888&ev=PageView&noscript=1"
       </a>
 
       <a class="bpost" data-cat="組織・育成" data-text="賃貸仲介の歩合給の決め方｜対象にする成果と、キャンセル時の扱い 歩合給 給与 店舗運営 スタッフ育成 賃貸仲介" href="articles/buai-kyu-kimekata.html">
-        <div class="bcover bcover--text"><span class="bct-cat">組織・育成</span><b>賃貸仲介の歩合給の決め方｜対象にする成果と、キャンセル時の扱い</b></div>
+        <div class="bcover bcover--img"><img src="assets/covers/buai-kyu-kimekata-card.webp" alt="賃貸仲介の歩合給の決め方｜対象にする成果と、キャンセル時の扱い" loading="lazy" decoding="async" width="640" height="360"></div>
         <div class="bbody">
           <div class="bmeta"><span class="bcat">組織・育成</span><span class="bdate">2026.10.18</span></div>
           <h3>賃貸仲介の歩合給の決め方｜対象にする成果と、キャンセル時の扱い</h3>
@@ -606,7 +606,7 @@ src="https://www.facebook.com/tr?id=28086413637650888&ev=PageView&noscript=1"
       </a>
 
       <a class="bpost" data-cat="業務効率化" data-text="賃料や条件の交渉を通す進め方｜確認の順番と、断られたときの代替案 条件交渉 申込管理 店舗運営 接客 賃貸仲介" href="articles/joken-kousho-susumekata.html">
-        <div class="bcover bcover--text"><span class="bct-cat">業務効率化</span><b>賃料や条件の交渉を通す進め方｜確認の順番と、断られたときの代替案</b></div>
+        <div class="bcover bcover--img"><img src="assets/covers/joken-kousho-susumekata-card.webp" alt="賃料や条件の交渉を通す進め方｜確認の順番と、断られたときの代替案" loading="lazy" decoding="async" width="640" height="360"></div>
         <div class="bbody">
           <div class="bmeta"><span class="bcat">業務効率化</span><span class="bdate">2026.10.17</span></div>
           <h3>賃料や条件の交渉を通す進め方｜確認の順番と、断られたときの代替案</h3>
